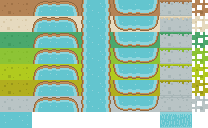
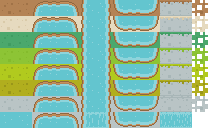
rivers now look much better

Changed region(s): [[0.1442, 0.875, 0.8365, 1.0]]

diff --git a/world.go b/world.go
@@ -49,7 +49,7 @@ const BEACH_LEVEL = WATER_LEVEL + 0.05
 const LOWLANDS = BEACH_LEVEL + 0.3
 const MIDLANDS = LOWLANDS + 0.3
 const HIGHLANDS = MIDLANDS + 0.3
-const WATER_SATURATION = 500
+const WATER_SATURATION = 100
 const NO_SOIL = -1.5
 const DRY = -0.5
 const MOIST = 0
@@ -174,13 +174,88 @@ func (w World) SetBiome(x, y int, b uint8) {
   w.locations[y * w.width + x].biome = b
 }
 
+func (w World) isRiverValid(centre *Location) bool {
+  if centre.biome == OCEAN {
+    return false
+  }
+  if centre.x <= 0 || centre.y <= 0 ||
+     centre.x + 1 >= w.width || centre.y + 1 >= w.height {
+    return false
+  }
+
+  for x := -1; x < 2; x++ {
+    for y := -1; y < 2; y++ {
+      loc := w.Location(centre.x + x, centre.y + y)
+
+      if loc.x + 1 < w.width  && loc.y - 1 >= 0 {
+        east := w.Location(loc.x + 1, loc.y)
+        NE := w.Location(loc.x + 1, loc.y - 1)
+        if loc.terrace < east.terrace && !NE.isRiver {
+          return false
+        }
+      }
+
+      if loc.x + 1 < w.width && loc.y - 1 >= 0 && loc.x - 1 >= 0 {
+        east := w.Location(loc.x + 1, loc.y)
+        NW := w.Location(loc.x - 1, loc.y - 1)
+        if loc.terrace > east.terrace && !NW.isRiver {
+          return false
+        }
+      }
+
+      if loc.x - 1 >= 0 && loc.y - 1 >= 0 {
+        west := w.Location(loc.x - 1, loc.y)
+        NW := w.Location(loc.x - 1, loc.y - 1)
+        if loc.terrace < west.terrace && !NW.isRiver {
+          return false
+        }
+      }
+
+      if loc.x - 1 >= 0 && loc.y - 1 >= 0 && loc.x + 1 < w.width {
+        west := w.Location(loc.x - 1, loc.y)
+        NE := w.Location(loc.x + 1, loc.y - 1)
+        if loc.terrace > west.terrace && !NE.isRiver {
+          return false
+        }
+      }
+    }
+  }
+  return true
+}
+
+func (w World) AddWater(loc *Location) {
+  loc.water += loc.moisture
+  loc.water -= loc.soilDepth
+  if loc.water > WATER_SATURATION && loc.biome != OCEAN {
+    loc.isRiver = true
+    west := w.Location(loc.x - 1, loc.y)
+    east := w.Location(loc.x + 1, loc.y)
+    if west.terrace > loc.terrace {
+      loc.addFeature(RIGHT_WATER_SHADOW_FEATURE)
+    }
+    if east.terrace > loc.terrace {
+      loc.addFeature(LEFT_WATER_SHADOW_FEATURE)
+    }
+    // Square up the water so that a body of water is a minimum of 3x3 tiles.
+    // This allows for a puddle of water to be surrounded in suitable tiles.
+    if loc.x > 1 && loc.y > 1 && loc.x + 1 < w.width && loc.y + 1 < w.height {
+      for x := -1; x < 2; x++ {
+        for y := -1; y < 2; y++ {
+          adjLoc := w.Location(loc.x + x, loc.y + y)
+          adjLoc.isRiver = true
+        }
+      }
+    }
+  }
+}
+
 func (w World) AddRivers() {
   queue := make([]*Location, len(w.peaks))
-
   i := 0
   totalWater := 0.0
+
   for loc, _ := range w.peaks {
-    loc.water = w.water + loc.moisture
+    loc.water = w.water * loc.moisture * loc.height
     totalWater += loc.water
     queue[i] = loc
     i++
@@ -200,28 +275,29 @@ func (w World) AddRivers() {
       if pred.water < 0 {
         continue
       }
+      if pred.y > loc.y {
+        continue
+      }
 
-      // Calculate percentage of predecessor's water the successor will
-      // receive.
-      gradientRatio := (math.Abs(pred.height) - math.Abs(loc.height)) / pred.totalGradient
+      gradientRatio := 0.0
+      if pred.terrace > loc.terrace {
+        gradientRatio = 1.0;
+      } else {
+        // Calculate percentage of predecessor's water the successor will
+        // receive.
+        gradientRatio = (math.Abs(pred.height) - math.Abs(loc.height)) / pred.totalGradient
+      }
       water := gradientRatio * pred.water
       loc.water += water
     }
 
-    loc.water += loc.moisture
-    loc.water -= loc.soilDepth
-    if loc.water > WATER_SATURATION && loc.biome != OCEAN {
-      loc.isRiver = true
-      // Square up the water so that a body of water is a minimum of 3x3 tiles.
-      // This allows for a puddle of water to be surrounded in suitable tiles.
-      if loc.x > 1 && loc.y > 1 && loc.x + 1 < w.width && loc.y + 1 < w.height {
-        for x := -1; x < 2; x++ {
-          for y := -1; y < 2; y++ {
-            adjLoc := w.Location(loc.x + x, loc.y + y)
-            if adjLoc.biome != OCEAN {
-              adjLoc.isRiver = true
-            }
-          }
+    if w.isRiverValid(loc) {
+      w.AddWater(loc)
+    } else {
+      if loc.y + 1 < w.height {
+        south := w.Location(loc.x, loc.y + 1)
+        if w.isRiverValid(south) {
+          w.AddWater(south)
         }
       }
     }

diff --git a/draw_map.go b/draw_map.go
@@ -155,9 +155,9 @@ func (render *MapRenderer) DrawRiverBankFeature(x, y int, feat uint, biome uint8
   render.floorSheet.DrawFeature(x, y, idx, render.mapImg)
 }
 
-func (render *MapRenderer) DrawFeatures(loc *Location, x, y int) {
+func (render *MapRenderer) DrawFeatures(loc *Location, biome uint8, x, y int) {
   if loc.isWall {
-    row := TILE_ROWS[loc.biome]
+    row := TILE_ROWS[biome]
     walls := [2]int { WALL_0, WALL_1 }
     colIdx := rand.Intn(len(walls))
     col := walls[colIdx]
@@ -173,6 +173,7 @@ func (render *MapRenderer) DrawFeatures(loc *Location, x, y int) {
                                   render.mapImg)
   }
 
+  if biome != RIVER {
   if loc.hasFeature(RIGHT_SHADOW_FEATURE) {
     render.shadowSheet.DrawFeature(x, y, RIGHT_VERTICAL_SHADOW, render.mapImg)
   }
@@ -188,17 +189,27 @@ func (render *MapRenderer) DrawFeatures(loc *Location, x, y int) {
   if loc.hasFeature(BOTTOM_RIGHT_SHADOW_FEATURE) {
     render.shadowSheet.DrawFeature(x, y, BOTTOM_RIGHT_SHADOW, render.mapImg)
   }
+  } else {
+    if loc.hasFeature(LEFT_WATER_SHADOW_FEATURE) {
+      render.shadowSheet.DrawFeature(x, y, LEFT_VERTICAL_WATER_SHADOW, render.mapImg)
+    }
+    if loc.hasFeature(RIGHT_WATER_SHADOW_FEATURE) {
+      render.shadowSheet.DrawFeature(x, y, RIGHT_VERTICAL_WATER_SHADOW, render.mapImg)
+    }
+  }
   if loc.hasFeature(TREE_FEATURE) {
-    trees := BIOME_TREES[loc.biome]
-    col := rand.Intn(len(trees))
-    rows := [2]int { 0, 1 }
-    rowIdx := rand.Intn(len(rows))
-    row := rows[rowIdx]
-    render.treeSheet.DrawFeature(x, y, row * NUM_TREES + trees[col],
+    trees := BIOME_TREES[biome]
+    if len(trees) != 0 {
+      col := rand.Intn(len(trees))
+      rows := [2]int { 0, 1 }
+      rowIdx := rand.Intn(len(rows))
+      row := rows[rowIdx]
+      render.treeSheet.DrawFeature(x, y, row * NUM_TREES + trees[col],
                                  render.mapImg)
+    }
   }
   if loc.hasFeature(ROCK_FEATURE) {
-    rocks := BIOME_ROCKS[loc.biome]
+    rocks := BIOME_ROCKS[biome]
     idx := rand.Intn(len(rocks))
     rock := rocks[idx]
     render.rockSheet.DrawFeature(x, y, rock, render.mapImg)
@@ -224,16 +235,18 @@ func (render *MapRenderer) ParallelDraw(w *World, xBegin, xEnd int, c chan int) 
         if biome == OCEAN {
           biome = BEACH
         }
+        if loc.isWall {
+          biome = RIVER
+        }
         render.DrawRiverBankFeature(x, y, loc.riverBank, biome)
-        continue
-      }
-      if loc.isRiver {
+        //render.DrawFeatures(loc, biome, x, y)
+      } else if loc.isRiver {
         render.DrawFloorTile(x, y, RIVER)
-        continue
+        render.DrawFeatures(loc, RIVER, x, y)
+      } else {
+        render.DrawFloorTile(x, y, biome)
+        render.DrawFeatures(loc, loc.biome, x, y)
       }
-
-      render.DrawFloorTile(x, y, biome)
-      render.DrawFeatures(loc, x, y)
     }
   }
   c <- 1

diff --git a/location.go b/location.go
@@ -10,8 +10,10 @@ const (
   LEFT_SHADOW_FEATURE = 1 << 4
   BOTTOM_LEFT_SHADOW_FEATURE = 1 << 5
   BOTTOM_RIGHT_SHADOW_FEATURE = 1 << 6
+  LEFT_WATER_SHADOW_FEATURE = 1 << 7
+  RIGHT_WATER_SHADOW_FEATURE = 1 << 8
 
-  GROUND_FEATURE = 1 << 7
+  GROUND_FEATURE = 1 << 9
 )
 
 const (

diff --git a/spritesheet.go b/spritesheet.go
@@ -46,6 +46,8 @@ const (
   RIGHT_VERTICAL_SHADOW
   BOTTOM_LEFT_SHADOW
   BOTTOM_RIGHT_SHADOW
+  LEFT_VERTICAL_WATER_SHADOW
+  RIGHT_VERTICAL_WATER_SHADOW
   NUM_SHADOWS
 )
 
